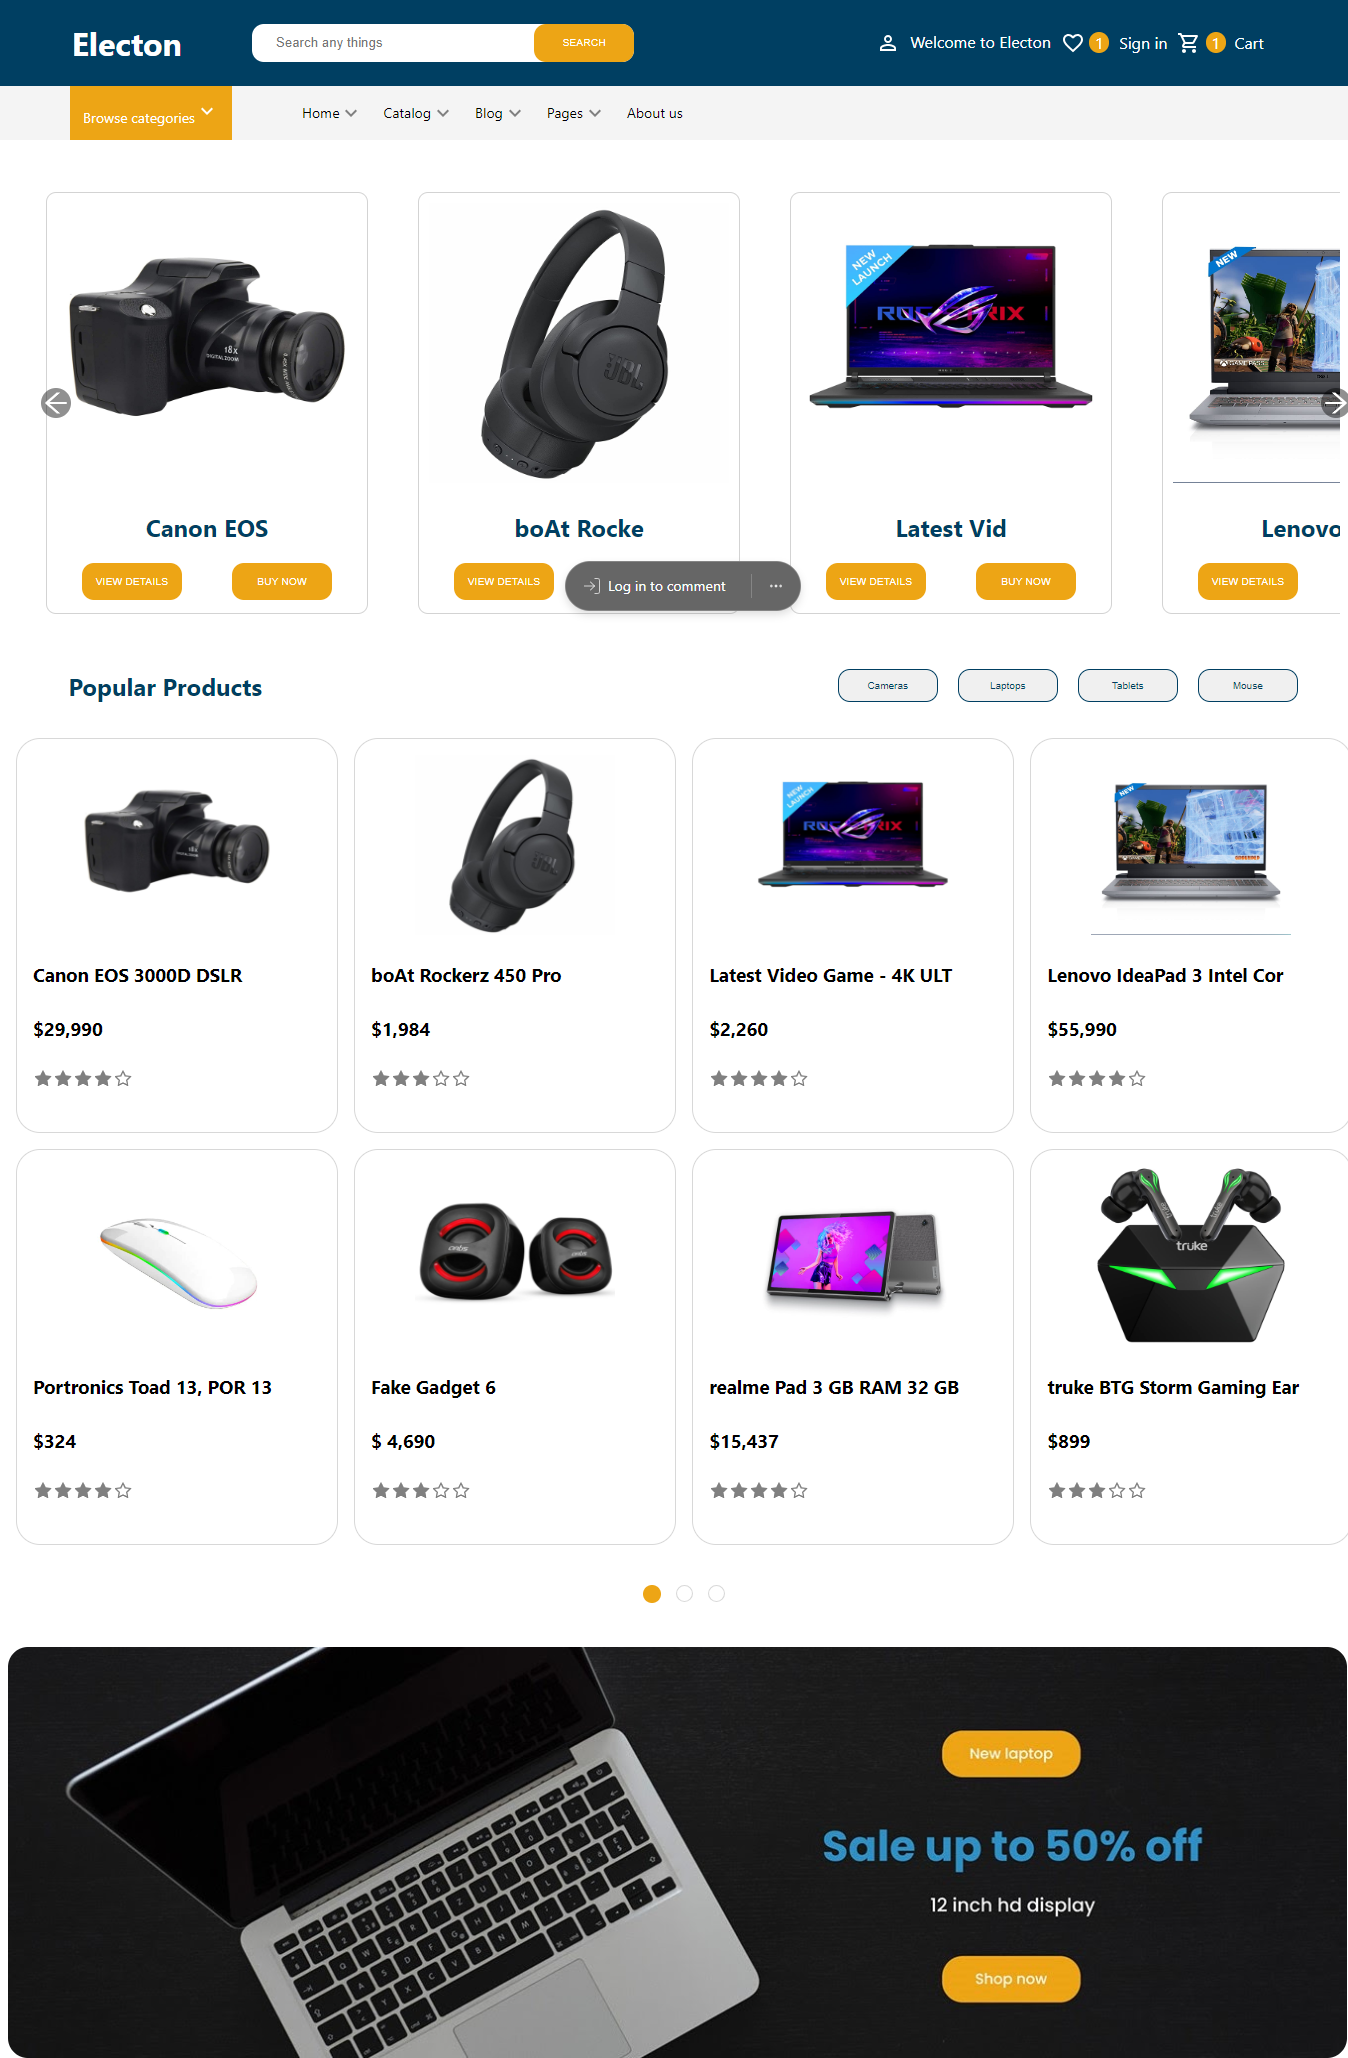
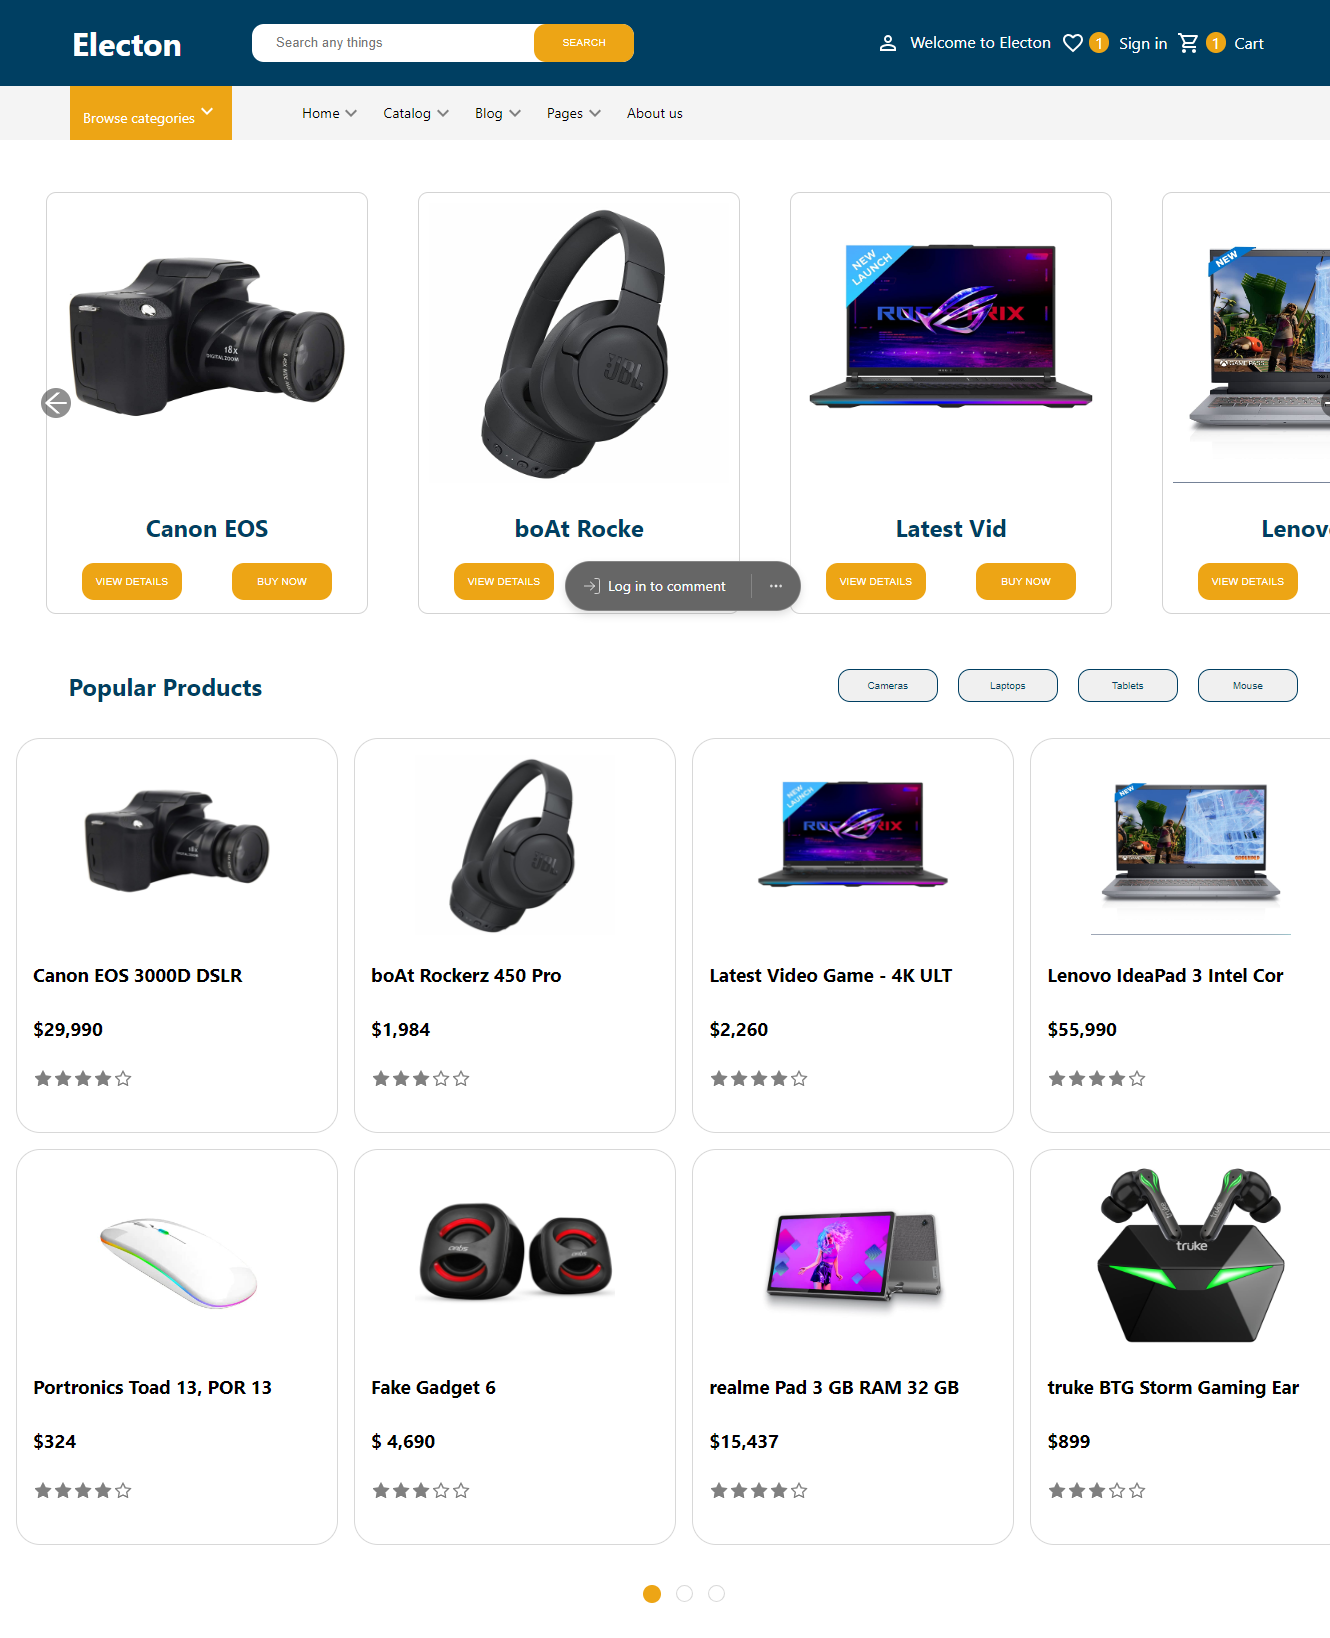
updatd

diff --git a/src/App.js b/src/App.js
@@ -225,7 +225,7 @@ function App() {
               </li>
               <li onClick={openResume}>
                 <a
-                  href={resume}
+                  // href={resume}
                   download="kamal-verma-resume"
                   className="navbar-link"
                 >
@@ -411,8 +411,8 @@ function App() {
               </p>
               <div className="btn-group" onClick={openResume}>
                 {/* <button className="btn btn-secondary">Hire me</button> */}
-                <a href={resume} download="kamal-verma-resume">
-                  <button className="btn btn-primary" download={resume}>
+                <a  download="kamal-verma-resume">
+                  <button className="btn btn-primary" >
                     Download cv
                   </button>
                 </a>
@@ -724,21 +724,21 @@ function App() {
                 <div className="project-card">
                   <figure className="card-banner">
                     <img
-                      src={require("./images/images/adventour.png")}
+                      src={require("./images/pharmaeasy.png")}
                       className="w-100"
                       alt="On a Blue background, a Wacom and a mouse."
                     />
                   </figure>
                   <div className="card-content">
                     <a
-                      href="https://effulgent-crostata-f624a5.netlify.app/"
+                      href="https://pharmeasy-web-site-clone.netlify.app"
                       target="_blank"
                       className="h4 card-title"
                     >
-                      Expedia Travel
+                      PharmaEasy
                     </a>
                     <a
-                      href="https://github.com/seakash1204/expedia_clone"
+                      href="https://github.com/VinodKumarGgithub/PharmaEasy"
                       target="_blank"
                       className="publish-date"
                       dateTime="2022-04"
@@ -759,14 +759,14 @@ function App() {
                   </figure>
                   <div className="card-content">
                     <a
-                      href="https://effulgent-crostata-f624a5.netlify.app/"
+                      href="https://faballey-web.netlify.app/"
                       target="_blank"
                       className="h4 card-title"
                     >
-                      Expedia Travel
+                      Faballey Clothing Brand
                     </a>
                     <a
-                      href="https://github.com/seakash1204/expedia_clone"
+                      href="https://github.com/BabyGupta05/faballey"
                       target="_blank"
                       className="publish-date"
                       dateTime="2022-04"
@@ -787,14 +787,14 @@ function App() {
                   </figure>
                   <div className="card-content">
                     <a
-                      href="http://adventour-app.vercel.app/"
+                      href="http://spotify-two-virid.vercel.app/"
                       target="_blank"
                       className="h4 card-title"
                     >
-                      Adventour
+                      Spotify Music App
                     </a>
                     <a
-                      href="https://github.com/Bharat-Shaw/Adventour"
+                      href="https://github.com/thisiskmv/Spotify-Clone"
                       target="_blank"
                       className="publish-date"
                     >
@@ -835,7 +835,7 @@ function App() {
                 <div className="project-card">
                   <figure className="card-banner">
                     <img
-                      src={require("./images/images/portfolio.png")}
+                      src={require("./images/kmvPortfolio.png")}
                       className="w-100"
                       alt="Blue digital watch on a dark liver background."
                     />
@@ -845,7 +845,7 @@ function App() {
                       Portfolio
                     </a>
                     <a
-                      href="https://github.com/iamFaizee/iamFaizee.github.io"
+                      href="https://github.com/thisiskmv/thisiskmv.github.io"
                       target="_blank"
                       className="publish-date"
                       dateTime="2022-04"
@@ -867,14 +867,14 @@ function App() {
                   </figure>
                   <div className="card-content">
                     <a
-                      href="https://dreamy-peony-b35dcc.netlify.app/"
+                      href="https://electon-abhi21121211.vercel.app/"
                       target="_blank"
                       className="h4 card-title"
                     >
-                      Big Basket
+                      Electon Website
                     </a>
                     <a
-                      href="https://github.com/kunalgoyat999/bigbasket"
+                      href="https://github.com/thisiskmv/Electon-clone"
                       target="_blank"
                       className="publish-date"
                       dateTime="2022-04"

diff --git a/public/index.html b/public/index.html
@@ -26,7 +26,7 @@
       work correctly both with client-side routing and a non-root public URL.
       Learn how to configure a non-root public URL by running `npm run build`.
     -->
-    <title>React App</title>
+    <title>Kamal Portfolio</title>
   </head>
   <body>
     <noscript>You need to enable JavaScript to run this app.</noscript>
